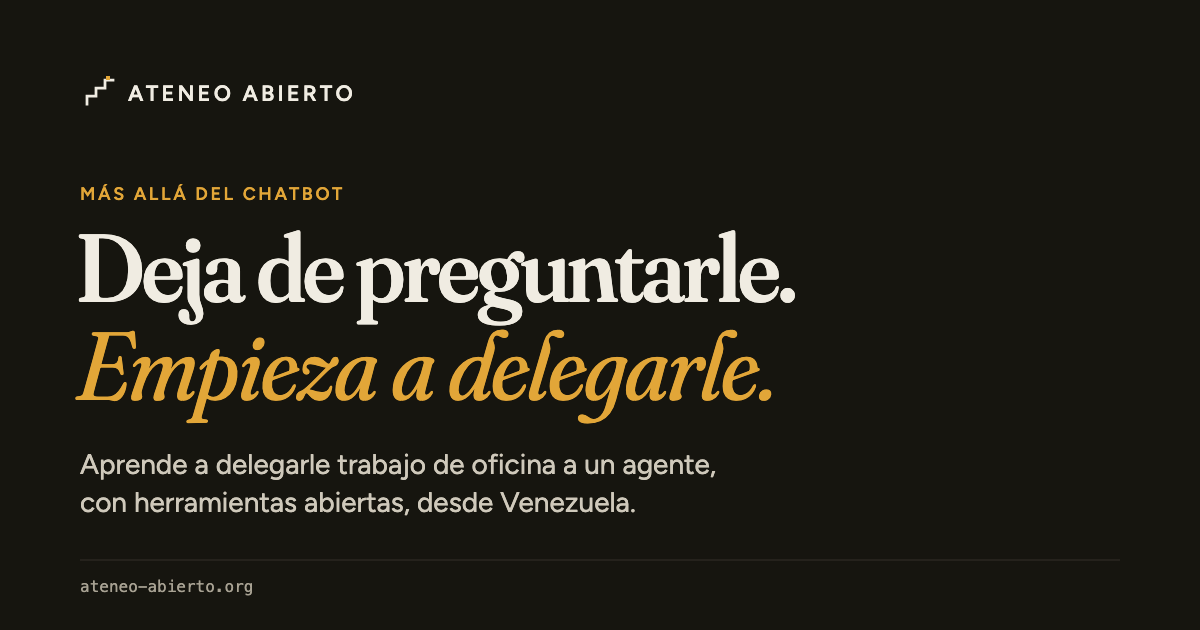
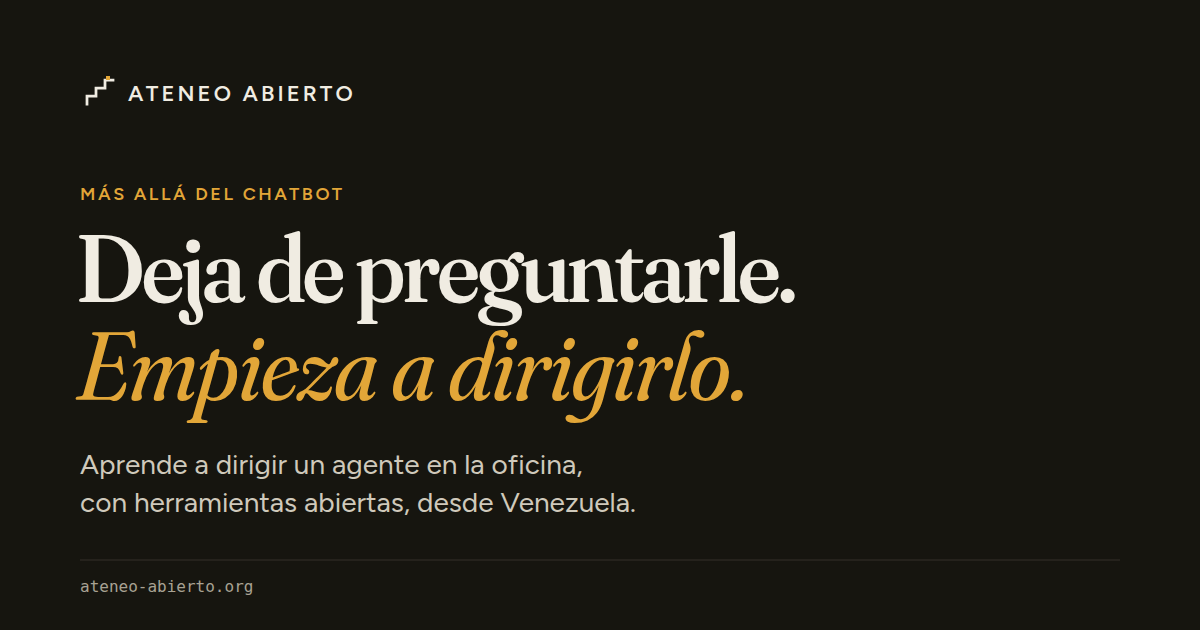
fix(og): make the home link preview say dirigir, like the page
The cards still said «delegarle» / "handing it work" while the hero and the og:image:alt say dirigir. The new tests pin the home cards to the hero claim and every door card to build-og-cards output.

diff --git a/src/content.test.ts b/src/content.test.ts
@@ -2,6 +2,7 @@ import { readFileSync } from 'node:fs';
 import { describe, expect, test } from 'vitest';
 import { copy, DEEP_LINK_ROUTES, type DeepLinkRoute } from './content';
 import { renderPage } from './render';
+import { buildCard } from '../scripts/build-og-cards';
 
 const locales = ['es', 'en'] as const;
 
@@ -244,6 +245,25 @@ describe('landing page copy', () => {
       const html = renderPage(locale);
       for (const route of DEEP_LINK_ROUTES) {
         expect(html).toContain(`<article class="door" id="${route}"`);
+      }
+    }
+  });
+
+  test('keeps the home link-preview cards on the hero claim', () => {
+    for (const [locale, file] of [['es', 'public/og.svg'], ['en', 'public/og-en.svg']] as const) {
+      const svg = readFileSync(file, 'utf8');
+      expect(svg).toContain(`>${copy[locale].hero.eyebrow.toUpperCase()}</text>`);
+      for (const line of copy[locale].hero.titleLines) expect(svg).toContain(`>${line.text}</text>`);
+      expect(svg).not.toMatch(/delega|handing it work|hand office work/i);
+    }
+  });
+
+  test('keeps every door card exactly what build-og-cards writes', () => {
+    const template = readFileSync('public/og.svg', 'utf8');
+    for (const route of DEEP_LINK_ROUTES) {
+      for (const locale of locales) {
+        const file = `public/og-${route}${locale === 'en' ? '-en' : ''}.svg`;
+        expect(readFileSync(file, 'utf8')).toBe(buildCard(template, locale, route));
       }
     }
   });
